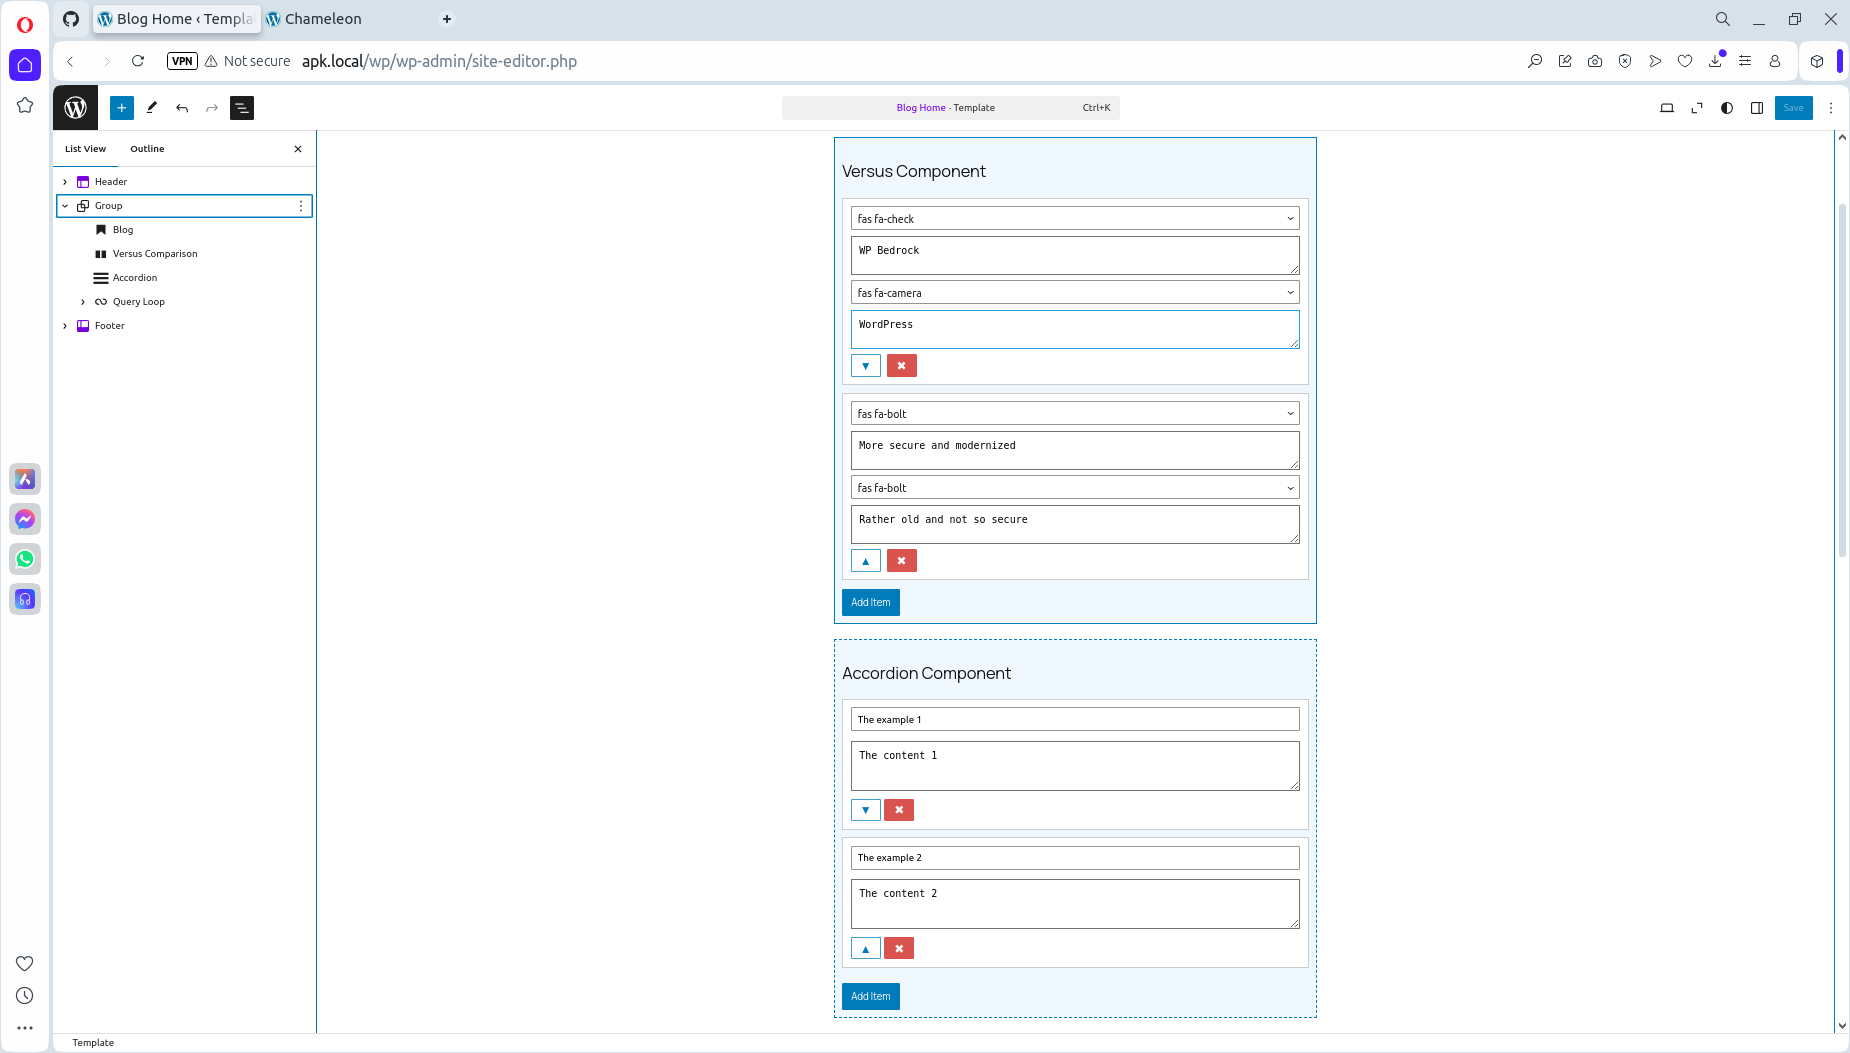
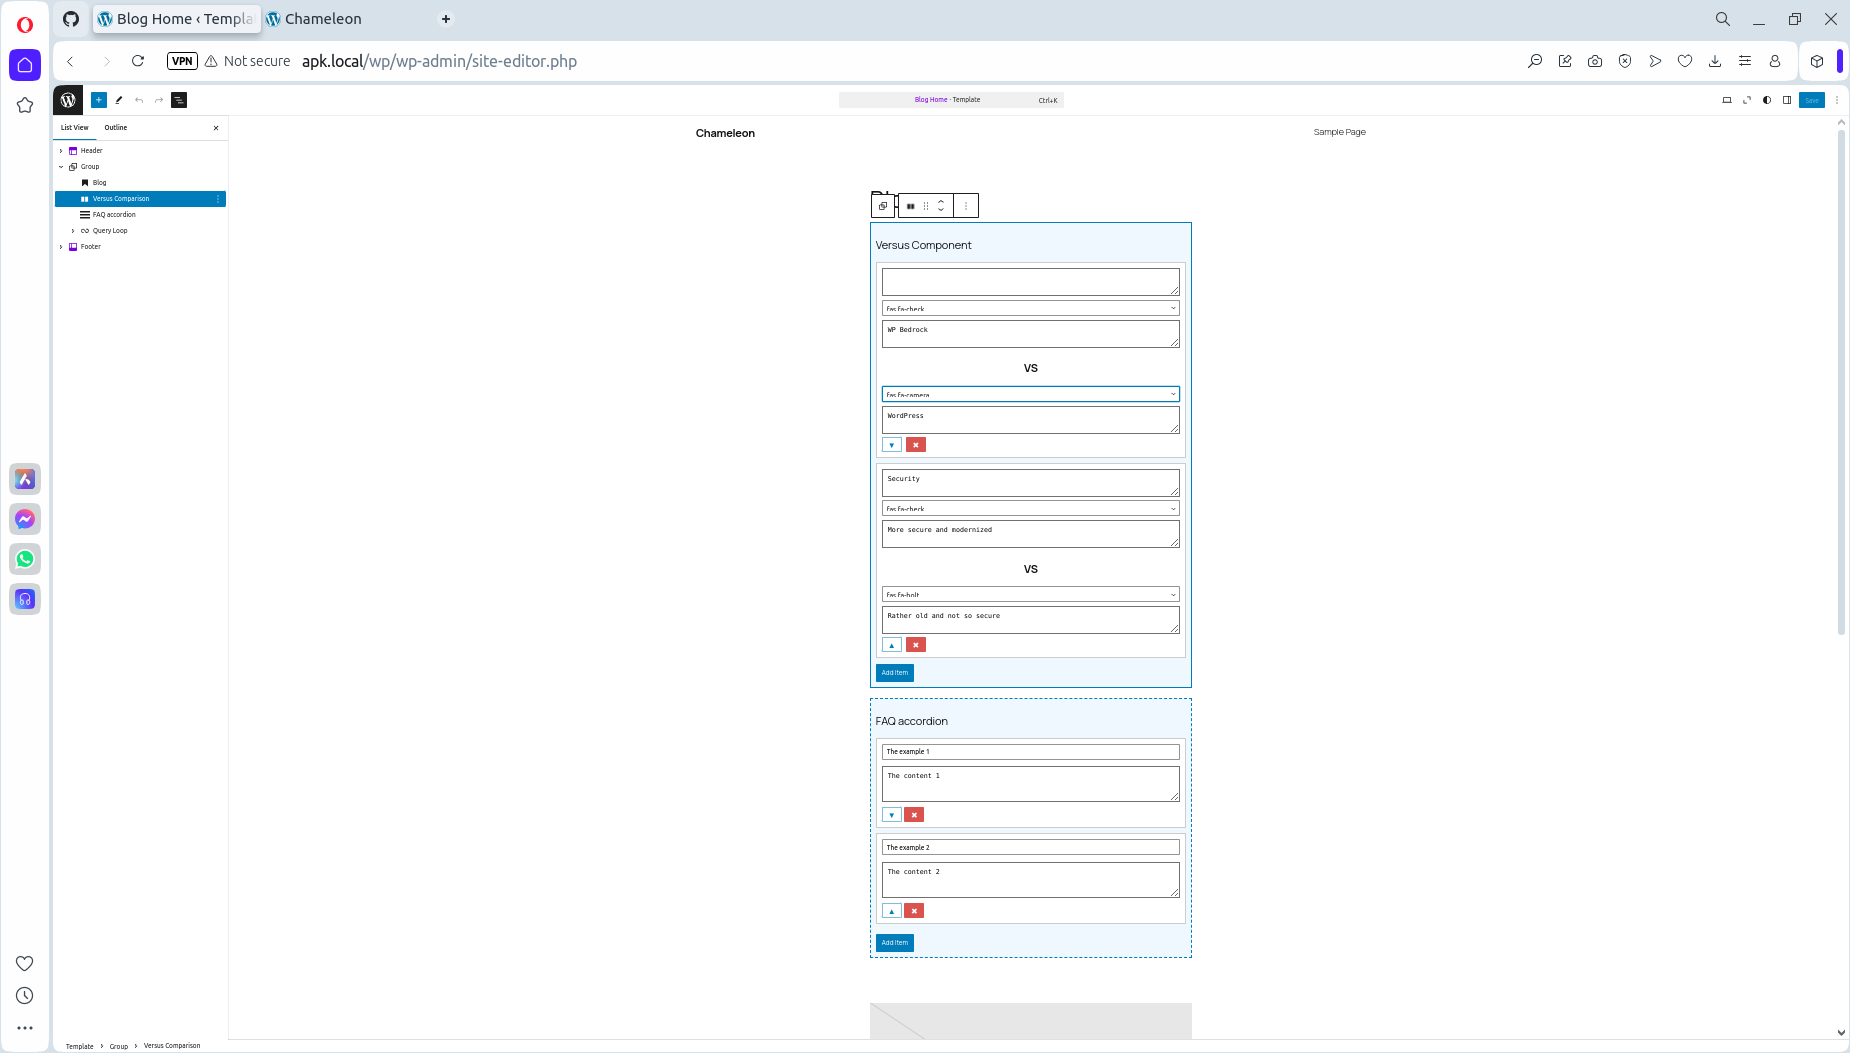
rename the accordion to FAQ, update the versus block view

diff --git a/dist/js/accordion-editor.js b/dist/js/accordion-editor.js
@@ -7,7 +7,7 @@
   var createElement = wp.element.createElement;
 
   registerBlockType("custom/accordion", {
-    title: __("Accordion", "custom-blocks"),
+    title: __("FAQ accordion", "custom-blocks"),
     description: __("A collapsible accordion block with ordered sub-items.", "custom-blocks"),
     category: "design",
     icon: "menu-alt3",
@@ -22,7 +22,6 @@
       var setAttributes = props.setAttributes;
       var blockProps = useBlockProps();
 
-      // Function to update an item
       var updateItem = function (index, key, value) {
         var newItems = attributes.items.map((item, i) => {
           if (i === index) {
@@ -33,7 +32,6 @@
         setAttributes({ items: newItems });
       };
 
-      // Function to clear default text on focus
       var clearDefaultText = function (index, key, defaultValue) {
         return function (event) {
           if (event.target.value === defaultValue) {
@@ -42,7 +40,6 @@
         };
       };
 
-      // Function to show a confirmation prompt before deleting
       var removeItem = function (index) {
         if (window.confirm(__("Are you sure you want to delete this item?", "custom-blocks"))) {
           var newItems = attributes.items.filter((_, i) => i !== index);
@@ -50,7 +47,6 @@
         }
       };
 
-      // Function to move an item up
       var moveItemUp = function (index) {
         if (index > 0) {
           let newItems = [...attributes.items];
@@ -59,7 +55,6 @@
         }
       };
 
-      // Function to move an item down
       var moveItemDown = function (index) {
         if (index < attributes.items.length - 1) {
           let newItems = [...attributes.items];
@@ -68,7 +63,6 @@
         }
       };
 
-      // Function to add a new item
       var addItem = function () {
         var newItems = [...attributes.items, { title: __("New Accordion Item", "custom-blocks"), content: __("New content", "custom-blocks") }];
         setAttributes({ items: newItems });
@@ -77,13 +71,12 @@
       return createElement(
         "div",
         Object.assign({}, blockProps, { className: "custom-accordion-editor" }),
-        createElement("h3", {}, __("Accordion Component", "custom-blocks")),
+        createElement("h3", {}, __("FAQ accordion", "custom-blocks")),
         attributes.items.map((item, index) =>
           createElement(
             "div",
             { className: "accordion-item", key: index },
 
-            // Editable Accordion Title
             createElement(TextControl, {
               value: item.title,
               onChange: (newTitle) => updateItem(index, "title", newTitle),
@@ -91,7 +84,6 @@
               placeholder: __("Enter accordion title...", "custom-blocks"),
             }),
 
-            // Editable Accordion Content (Textarea)
             createElement("textarea", {
               className: "accordion-content-editor",
               value: item.content,
@@ -101,7 +93,6 @@
               rows: 3,
             }),
 
-            // Buttons in One Line
             createElement(
               "div",
               { className: "accordion-controls" },
@@ -113,7 +104,7 @@
                   className: "move-up-accordion-item",
                   onClick: () => moveItemUp(index),
                 },
-                __("▲", "custom-blocks") // Unicode for Up Arrow
+                __("▲", "custom-blocks")
               ),
 
               index < attributes.items.length - 1 &&
@@ -124,7 +115,7 @@
                   className: "move-down-accordion-item",
                   onClick: () => moveItemDown(index),
                 },
-                __("▼", "custom-blocks") // Unicode for Down Arrow
+                __("▼", "custom-blocks")
               ),
 
               createElement(
@@ -134,13 +125,12 @@
                   className: "remove-accordion-item",
                   onClick: () => removeItem(index),
                 },
-                __("✖", "custom-blocks") // Unicode for Cross
+                __("✖", "custom-blocks")
               )
             )
           )
         ),
 
-        // Add Button
         createElement(
           Button,
           {

diff --git a/dist/css/versus-editor.css b/dist/css/versus-editor.css
@@ -1,1 +1,1 @@
-.versus-editor{background-color:#f0f8ff;border:1px dashed #007cba;margin-bottom:10px;padding:10px}.versus-editor .versus-row{background:#fff;border:1px solid #ccc;margin-bottom:10px;padding:10px}.versus-editor .versus-row .icon-feature-group textarea{box-sizing:border-box;min-height:40px;padding:10px;width:100%}.versus-editor .versus-row .icon-feature-group select{border:1px solid #dcdcdc;border-radius:4px;font-size:14px;padding:8px;width:100%}.versus-editor .versus-row .action-buttons{display:flex;gap:8px}.versus-editor .versus-row .action-buttons button{align-items:center;display:flex;font-size:16px;height:30px;justify-content:center;padding:5px;width:40px}.versus-editor .versus-row .action-buttons button:hover{opacity:.9}.versus-editor .versus-row .action-buttons button.move-down-versus-item,.versus-editor .versus-row .action-buttons button.move-up-versus-item{background-color:#fff;color:#007cba}.versus-editor .versus-row .action-buttons button.move-down-versus-item:hover,.versus-editor .versus-row .action-buttons button.move-up-versus-item:hover{background-color:#005a9e}.versus-editor .versus-row .action-buttons button.remove-versus-item{background-color:#d9534f;color:#fff}.versus-editor .versus-row .action-buttons button.remove-versus-item:hover{background-color:#c9302c}.versus-editor .versus-row .action-buttons button.button-secondary{background-color:#eaeaea;color:#000}.versus-editor .versus-row .action-buttons button.button-secondary:hover{background-color:#dcdcdc}
+.versus-editor{background-color:#f0f8ff;border:1px dashed #007cba;margin-bottom:10px;padding:10px}.versus-editor .versus-row{background:#fff;border:1px solid #ccc;margin-bottom:10px;padding:10px}.versus-editor .versus-row .icon-feature-group .text-center{font-weight:700;text-align:center}.versus-editor .versus-row .icon-feature-group textarea{box-sizing:border-box;min-height:40px;padding:10px;width:100%}.versus-editor .versus-row .icon-feature-group select{border:1px solid #dcdcdc;border-radius:4px;font-size:14px;padding:8px;width:100%}.versus-editor .versus-row .action-buttons{display:flex;gap:8px}.versus-editor .versus-row .action-buttons button{align-items:center;display:flex;font-size:16px;height:30px;justify-content:center;padding:5px;width:40px}.versus-editor .versus-row .action-buttons button:hover{opacity:.9}.versus-editor .versus-row .action-buttons button.move-down-versus-item,.versus-editor .versus-row .action-buttons button.move-up-versus-item{background-color:#fff;color:#007cba}.versus-editor .versus-row .action-buttons button.move-down-versus-item:hover,.versus-editor .versus-row .action-buttons button.move-up-versus-item:hover{background-color:#005a9e}.versus-editor .versus-row .action-buttons button.remove-versus-item{background-color:#d9534f;color:#fff}.versus-editor .versus-row .action-buttons button.remove-versus-item:hover{background-color:#c9302c}.versus-editor .versus-row .action-buttons button.button-secondary{background-color:#eaeaea;color:#000}.versus-editor .versus-row .action-buttons button.button-secondary:hover{background-color:#dcdcdc}

diff --git a/dist/css/versus-style.css b/dist/css/versus-style.css
@@ -1,1 +1,1 @@
-.custom-versus{background:#fff;border:1px solid #ddd;border-radius:5px;margin:20px auto;max-width:800px;padding:10px;width:100%}.custom-versus .versus-table{border-collapse:collapse;text-align:center;width:100%}.custom-versus .versus-table thead{background:#0073aa;color:#fff}.custom-versus .versus-table thead th{font-size:16px;font-weight:700;padding:12px}.custom-versus .versus-table tbody tr:nth-child(2n){background:#fff}.custom-versus .versus-table tbody tr td{background:#f9f9f9;border:1px solid #ddd;font-size:14px;padding:12px}.custom-versus .versus-table tbody tr td i{font-size:16px;margin-right:5px}.wp-block-custom-versus .versus-editor{background:#fff;border:1px solid #ddd;border-radius:6px;display:flex;flex-direction:column;gap:10px;padding:15px}.wp-block-custom-versus .versus-row{align-items:center;background:#f9f9f9;border:1px solid #ddd;border-radius:5px;display:flex;gap:10px;justify-content:space-between;padding:10px}.wp-block-custom-versus .versus-row input,.wp-block-custom-versus .versus-row select{border:1px solid #c4c4c4;border-radius:4px;flex:1;padding:8px}.wp-block-custom-versus .versus-row button{background:#005177;border:none;border-radius:3px;color:#fff;cursor:pointer;padding:5px 10px}.wp-block-custom-versus .versus-row button:hover{background:#003f5e}.wp-block-custom-versus .add-versus-item{background:#0073aa;border:none;border-radius:4px;color:#fff;cursor:pointer;margin-top:10px;padding:8px 12px}.wp-block-custom-versus .add-versus-item:hover{background:#005177}
+.custom-versus{background:#fff;border:1px solid #ddd;border-radius:5px;margin:20px auto;max-width:800px;overflow:auto;padding:10px;width:100%}.custom-versus .versus-table{border-collapse:collapse;text-align:center;width:100%}.custom-versus .versus-table thead{background:#0073aa;color:#fff}.custom-versus .versus-table thead th{font-size:16px;font-weight:700;padding:12px}.custom-versus .versus-table tbody tr:nth-child(2n){background:#fff}.custom-versus .versus-table tbody tr td{background:#f9f9f9;border:1px solid #ddd;font-size:14px;padding:12px}.custom-versus .versus-table tbody tr td i{font-size:16px;margin-right:5px}.wp-block-custom-versus .versus-editor{background:#fff;border:1px solid #ddd;border-radius:6px;display:flex;flex-direction:column;gap:10px;padding:15px}.wp-block-custom-versus .versus-row{align-items:center;background:#f9f9f9;border:1px solid #ddd;border-radius:5px;display:flex;gap:10px;justify-content:space-between;padding:10px}.wp-block-custom-versus .versus-row input,.wp-block-custom-versus .versus-row select{border:1px solid #c4c4c4;border-radius:4px;flex:1;padding:8px}.wp-block-custom-versus .versus-row button{background:#005177;border:none;border-radius:3px;color:#fff;cursor:pointer;padding:5px 10px}.wp-block-custom-versus .versus-row button:hover{background:#003f5e}.wp-block-custom-versus .add-versus-item{background:#0073aa;border:none;border-radius:4px;color:#fff;cursor:pointer;margin-top:10px;padding:8px 12px}.wp-block-custom-versus .add-versus-item:hover{background:#005177}

diff --git a/assets/js/versus-editor.js b/assets/js/versus-editor.js
@@ -15,6 +15,7 @@
         type: "array",
         default: [
           {
+            label: __("Property", "custom-blocks"),
             leftIcon: "fas fa-check",
             leftText: __("Feature A", "custom-blocks"),
             rightIcon: "fas fa-times",
@@ -85,6 +86,7 @@
 
       function addComparison() {
         var newItems = attributes.items.concat({
+          label: __("Property", "custom-blocks"),
           leftIcon: "fas fa-check",
           leftText: __("Feature A", "custom-blocks"),
           rightIcon: "fas fa-times",
@@ -108,6 +110,14 @@
             "div",
             { className: "versus-row", key: index },
             createElement("div", { className: "icon-feature-group" },
+              createElement("textarea", {
+                value: comp.label,
+                onChange: event => updateComparison(index, "label", event.target.value),
+                onFocus: event => handleFocus(event, __("Property", "custom-blocks")),
+                className: "feature-textarea"
+              })
+            ),
+            createElement("div", { className: "icon-feature-group" },
 
               createElement(SelectControl, {
                 value: comp.leftIcon,
@@ -124,6 +134,13 @@
                 className: "feature-textarea"
               })
             ),
+
+            createElement("div", { className: "icon-feature-group" },
+
+              createElement("h3", { className: "text-center" }, __(" VS ", "custom-blocks"))
+
+            ),
+
             createElement("div", { className: "icon-feature-group" },
 
               createElement(SelectControl, {

diff --git a/dist/js/versus-editor.js b/dist/js/versus-editor.js
@@ -15,6 +15,7 @@
         type: "array",
         default: [
           {
+            label: __("Property", "custom-blocks"),
             leftIcon: "fas fa-check",
             leftText: __("Feature A", "custom-blocks"),
             rightIcon: "fas fa-times",
@@ -85,6 +86,7 @@
 
       function addComparison() {
         var newItems = attributes.items.concat({
+          label: __("Property", "custom-blocks"),
           leftIcon: "fas fa-check",
           leftText: __("Feature A", "custom-blocks"),
           rightIcon: "fas fa-times",
@@ -108,6 +110,14 @@
             "div",
             { className: "versus-row", key: index },
             createElement("div", { className: "icon-feature-group" },
+              createElement("textarea", {
+                value: comp.label,
+                onChange: event => updateComparison(index, "label", event.target.value),
+                onFocus: event => handleFocus(event, __("Property", "custom-blocks")),
+                className: "feature-textarea"
+              })
+            ),
+            createElement("div", { className: "icon-feature-group" },
 
               createElement(SelectControl, {
                 value: comp.leftIcon,
@@ -124,6 +134,13 @@
                 className: "feature-textarea"
               })
             ),
+
+            createElement("div", { className: "icon-feature-group" },
+
+              createElement("h3", { className: "text-center" }, __(" VS ", "custom-blocks"))
+
+            ),
+
             createElement("div", { className: "icon-feature-group" },
 
               createElement(SelectControl, {

diff --git a/assets/js/accordion-editor.js b/assets/js/accordion-editor.js
@@ -7,7 +7,7 @@
   var createElement = wp.element.createElement;
 
   registerBlockType("custom/accordion", {
-    title: __("Accordion", "custom-blocks"),
+    title: __("FAQ accordion", "custom-blocks"),
     description: __("A collapsible accordion block with ordered sub-items.", "custom-blocks"),
     category: "design",
     icon: "menu-alt3",
@@ -71,7 +71,7 @@
       return createElement(
         "div",
         Object.assign({}, blockProps, { className: "custom-accordion-editor" }),
-        createElement("h3", {}, __("Accordion Component", "custom-blocks")),
+        createElement("h3", {}, __("FAQ accordion", "custom-blocks")),
         attributes.items.map((item, index) =>
           createElement(
             "div",

diff --git a/assets/scss/versus-editor.scss b/assets/scss/versus-editor.scss
@@ -5,6 +5,7 @@
   padding: 10px;
   margin-bottom: 10px;
 
+
   .versus-row {
 
     border: 1px solid #ccc;
@@ -13,6 +14,11 @@
     background: #fff;
 
     .icon-feature-group {
+
+      .text-center {
+        text-align: center;
+        font-weight: bold;
+      }
 
       textarea {
         box-sizing: border-box;

diff --git a/blocks/Versus.php b/blocks/Versus.php
@@ -27,6 +27,7 @@ class Versus extends Basic {
                     'type'    => 'array',
                     'default' => [
                         [
+                            'label'  => 'Property',
                             'leftIcon'  => 'fas fa-check',
                             'leftText'  => 'Feature A',
                             'rightIcon' => 'fas fa-times',
@@ -65,10 +66,12 @@ class Versus extends Basic {
     private function renderSubItem(array $comparison): string {
         return sprintf(
             '<tr>
+                <td><strong>%s</strong></td>
                 <td><strong><i class="%s"></i> %s</strong></td>
                 <td><strong>VS</strong></td>
                 <td><strong><i class="%s"></i> %s</strong></td>
             </tr>',
+            esc_html($comparison['label'] ?? ''),
             esc_attr($comparison['leftIcon']), esc_html($comparison['leftText']),
             esc_attr($comparison['rightIcon']), esc_html($comparison['rightText'])
         );

diff --git a/README.md b/README.md
@@ -1,12 +1,12 @@
 # TwentyTwentyFive Child Theme with custom blocks for Gutenberg
 
-This repository contains the definition of a **TwentyTwentyFive Child Theme** with various custom **Accordion/Versus Blocks** for the **Gutenberg Editor**. It is designed for **WordPress 6.7.1** running on **WP Bedrock**.
+This repository contains the definition of a **TwentyTwentyFive Child Theme** with various custom **FAQ Accordion/Versus Blocks** for the **Gutenberg Editor**. It is designed for **WordPress 6.7.1** running on **WP Bedrock**.
 
 ---
 
 ## Features
 
-- **Custom Accordion/Versus Blocks**:
+- **Custom FAQ Accordion/Versus Blocks**:
   - Built specifically for the Gutenberg Editor.
   - Fully customizable with multiple items.
   - Smooth animations for opening/closing.
@@ -45,10 +45,10 @@ Created by **Peter Novozhilov** to demonstrate:
 ## Screenshots
 
 ### Frontend View:
-![Accordion/Versus Blocks Screenshot](screenshot.png)  
+![FAQ Accordion/Versus Blocks Screenshot](screenshot.png)  
 View full-size: [screenshot.png](./screenshot.png)
 
 ### Admin Editor View:
-![Accordion/Versus Blocks Editor](screenshot-admin.png)  
+![FAQ Accordion/Versus Blocks Editor](screenshot-admin.png)  
 View full-size: [screenshot-admin.png](./screenshot-admin.png)
 
